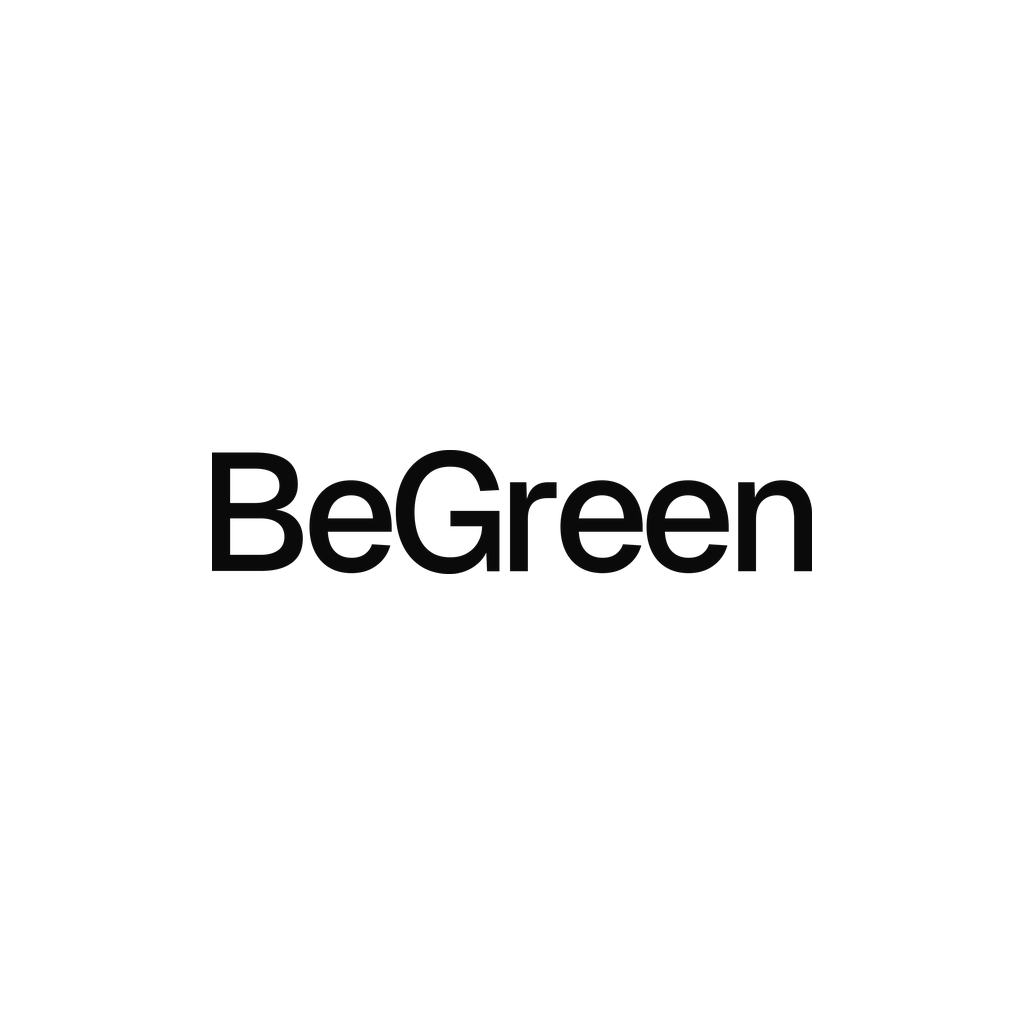
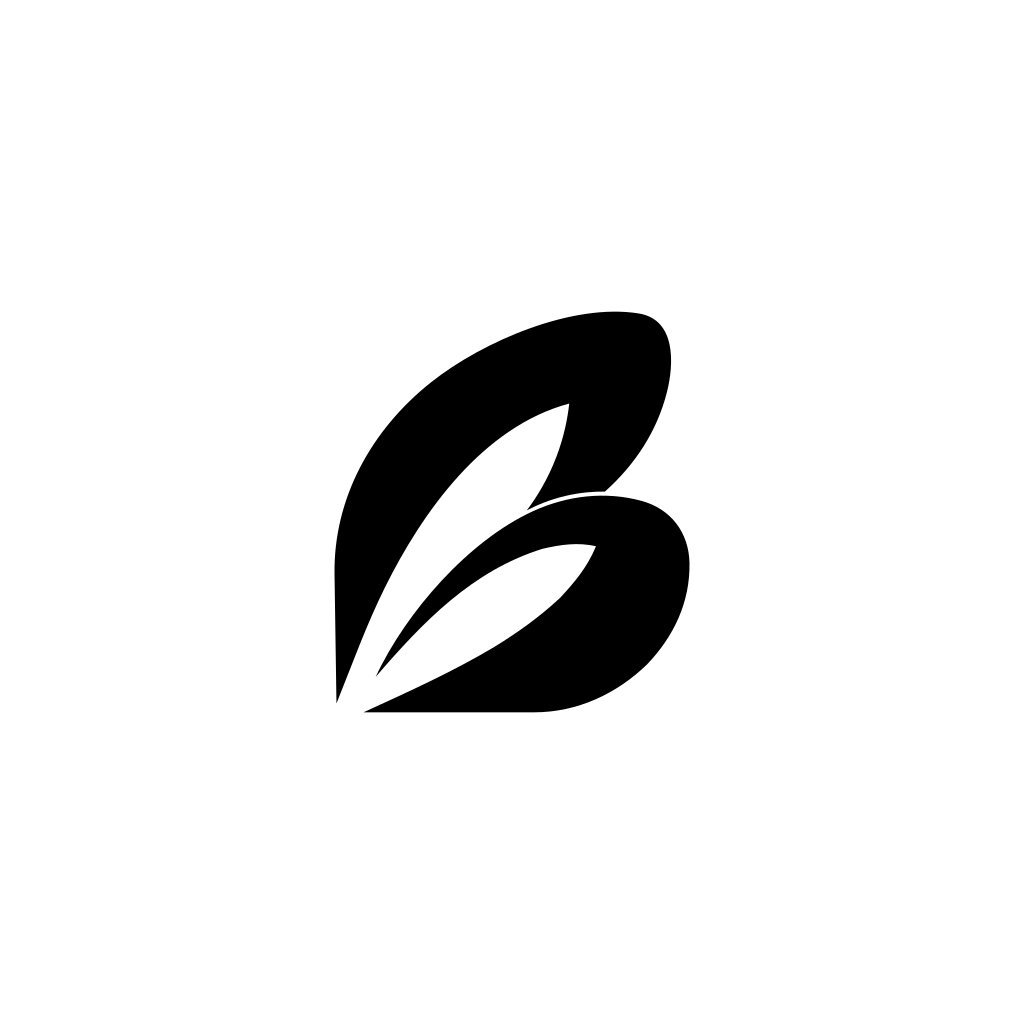
feat: loghi del BeGreen Brand Kit nell'app
Sostituisce il logo testuale «BeGreen» con il logo vettoriale del Brand Kit v1.0
(simbolo «B» a foglia + wordmark) in un nuovo componente `components/logo.tsx`,
e aggiorna icona app, icona adattiva Android, splash e favicon (Canopy su Proof Lime).

- Rimossa l'animazione `SwayingLeaf`: il Brand Kit vieta di ruotare il logo.
- Nuovi token `canopy` e `proofLime`; `lime` e `forest` dell'interfaccia restano invariati.
- README e MARKETING aggiornati.

Changed region(s): [[0.1875, 0.2812, 0.8125, 0.7188]]

diff --git a/src/components/logo.tsx b/src/components/logo.tsx
@@ -1,0 +1,64 @@
+import { View } from "react-native";
+import Svg, { G, Path } from "react-native-svg";
+
+import { C } from "@/theme/tokens";
+
+// Vector paths from the BeGreen Brand Kit (Logos/SVG, v1.0). Lockup geometry is baked in:
+// mark = 1.32 × wordmark height, gap = 0.34 × wordmark height, bottoms aligned.
+// Never put lime on white, and never stretch or rearrange the lockup.
+
+const MARK = [
+  "M187.02,73.21c-68.92,18.39-117.26,86.88-146.75,146.34-14.96,30.16-25.65,60.13-38.7,92.63L.02,209.21c-.91-60.68,29.56-115.31,76.85-152.89C118.36,23.34,190-7.08,242.46,1.46c29.7,4.83,28.08,40.15,22.38,62.71-7.87,31.15-25.38,57.74-49.41,79.2-8.26-.1-19.05.55-31.31,3.42-12.95,3.03-23.37,7.57-30.93,11.54,7.46-9.88,16.67-24.29,23.79-43.18,6.09-16.16,8.8-30.73,10.04-41.95Z",
+  "M179.32,228.43c12.04-12.82,22-24.73,29.02-41.48-14.35-3.4-28.2-1.34-42.63,2-55.86,17.39-95,58.01-132.9,102.06,24.18-51.95,74.36-108.67,125.18-131.96,27.53-12.61,57.69-16.09,86.51-8.32,23.51,6.33,37.92,25.39,38.32,49.65.52,30.91-12.39,58.38-33.91,80.77-23.89,23.12-55.25,38.07-89.71,38.07l-136.14.02c36.57-16.79,70.67-32.1,104.27-52.13,18.66-11.47,35.51-23.47,51.98-38.69Z",
+];
+
+const WORDMARK = [
+  "M0,209.64V4.62h73.63c24.64,0,43.21,4.43,55.73,13.28,12.51,8.86,18.77,22.91,18.77,42.16,0,8.66-1.83,16.27-5.49,22.81-3.66,6.55-9,11.69-16.03,15.45-7.03,3.75-15.35,5.73-24.98,5.92l-.29-1.15c17.52.39,31.14,5.15,40.86,14.29,9.72,9.15,14.58,21.13,14.58,35.95,0,18.67-6.26,32.73-18.77,42.16-12.52,9.43-30.32,14.15-53.42,14.15H0ZM31.19,92.11h41.87c13.67,0,24.26-2.6,31.76-7.8,7.51-5.2,11.26-12.51,11.26-21.95,0-10.01-3.61-17.47-10.83-22.38-7.22-4.91-17.95-7.36-32.2-7.36H31.19v59.48ZM31.19,181.63h52.55c12.9,0,22.96-2.64,30.18-7.94,7.22-5.29,10.83-13.04,10.83-23.25s-3.61-17.8-10.83-23.39c-7.22-5.58-17.28-8.37-30.18-8.37H31.19v62.95Z",
+  "M235.92,213.11c-15.02,0-27.96-3.28-38.84-9.82-10.88-6.54-19.25-15.88-25.12-28.01-5.87-12.13-8.81-26.28-8.81-42.45s2.93-30.27,8.81-42.3c5.87-12.03,14.19-21.37,24.98-28.01,10.78-6.64,23.48-9.96,38.12-9.96,13.86,0,26.08,3.23,36.67,9.67,10.58,6.45,18.81,15.74,24.69,27.87,5.87,12.13,8.81,26.76,8.81,43.89v7.8h-110.31c.77,15.02,4.76,26.28,11.98,33.79,7.22,7.51,16.99,11.26,29.31,11.26,9.05,0,16.55-2.12,22.52-6.35,5.96-4.23,10.11-9.91,12.42-17.04l31.76,2.02c-4.04,14.25-11.98,25.75-23.82,34.51-11.84,8.76-26.23,13.14-43.17,13.14ZM194.91,118.68h77.97c-.97-13.67-4.86-23.77-11.69-30.32-6.84-6.54-15.55-9.82-26.13-9.82s-19.97,3.42-27,10.25c-7.03,6.84-11.41,16.8-13.14,29.89Z",
+  "M401.08,214.26c-19.45,0-36.09-4.58-49.96-13.72-13.86-9.14-24.45-21.75-31.76-37.83-7.32-16.07-10.97-34.51-10.97-55.3s3.7-38.98,11.12-55.15c7.41-16.17,18.14-28.92,32.2-38.26,14.05-9.34,30.9-14,50.53-14,16.75,0,30.94,2.99,42.59,8.95,11.64,5.97,20.89,14.15,27.72,24.54,6.83,10.4,11.6,22.23,14.29,35.52l-32.63,1.73c-2.31-12.51-7.51-22.67-15.59-30.46-8.08-7.8-20.21-11.69-36.38-11.69-14.25,0-25.89,3.56-34.94,10.68-9.05,7.12-15.74,16.65-20.07,28.59-4.33,11.94-6.5,25.12-6.5,39.56s2.17,28.4,6.5,40.14c4.33,11.74,11.07,21.03,20.21,27.87,9.14,6.83,20.84,10.25,35.08,10.25,11.16,0,20.79-2.41,28.88-7.22,8.08-4.81,14.39-11.36,18.91-19.64,4.52-8.28,6.98-17.42,7.36-27.43h-54.86v-26.28h84.61v104.53h-21.37l-2.02-46.2,4.04,3.46c-2.12,9.24-6.45,17.42-12.99,24.54-6.55,7.12-14.49,12.71-23.82,16.75-9.34,4.04-19.4,6.06-30.18,6.06Z",
+  "M501.57,209.64V56.02h28.01l1.16,40.72-2.6-.87c2.12-13.86,6.4-23.97,12.85-30.32,6.45-6.35,15.16-9.53,26.13-9.53h14.73v27.43h-14.73c-7.7,0-14.15,1.25-19.35,3.75-5.2,2.5-9.1,6.35-11.7,11.55s-3.9,11.94-3.9,20.21v90.67h-30.61Z",
+  "M645.38,213.11c-15.02,0-27.96-3.28-38.84-9.82-10.88-6.54-19.25-15.88-25.12-28.01-5.88-12.13-8.81-26.28-8.81-42.45s2.93-30.27,8.81-42.3c5.87-12.03,14.19-21.37,24.98-28.01,10.78-6.64,23.48-9.96,38.12-9.96,13.86,0,26.08,3.23,36.67,9.67,10.58,6.45,18.81,15.74,24.69,27.87,5.87,12.13,8.81,26.76,8.81,43.89v7.8h-110.31c.77,15.02,4.76,26.28,11.98,33.79,7.22,7.51,16.99,11.26,29.31,11.26,9.05,0,16.55-2.12,22.52-6.35,5.96-4.23,10.11-9.91,12.42-17.04l31.76,2.02c-4.04,14.25-11.98,25.75-23.82,34.51-11.84,8.76-26.23,13.14-43.17,13.14ZM604.37,118.68h77.97c-.97-13.67-4.86-23.77-11.7-30.32-6.83-6.54-15.55-9.82-26.13-9.82s-19.97,3.42-27,10.25c-7.03,6.84-11.41,16.8-13.14,29.89Z",
+  "M787.16,213.11c-15.02,0-27.96-3.28-38.84-9.82-10.88-6.54-19.25-15.88-25.12-28.01-5.88-12.13-8.81-26.28-8.81-42.45s2.93-30.27,8.81-42.3c5.87-12.03,14.19-21.37,24.98-28.01,10.78-6.64,23.48-9.96,38.12-9.96,13.86,0,26.08,3.23,36.67,9.67,10.58,6.45,18.81,15.74,24.69,27.87,5.87,12.13,8.81,26.76,8.81,43.89v7.8h-110.31c.77,15.02,4.76,26.28,11.98,33.79,7.22,7.51,16.99,11.26,29.31,11.26,9.05,0,16.55-2.12,22.52-6.35,5.96-4.23,10.11-9.91,12.42-17.04l31.76,2.02c-4.04,14.25-11.98,25.75-23.82,34.51-11.84,8.76-26.23,13.14-43.17,13.14ZM746.15,118.68h77.97c-.97-13.67-4.86-23.77-11.7-30.32-6.83-6.54-15.55-9.82-26.13-9.82s-19.97,3.42-27,10.25c-7.03,6.84-11.41,16.8-13.14,29.89Z",
+  "M865.7,209.64V56.02h28.01l1.16,41-3.75-2.02c1.73-10.01,5-18.09,9.82-24.26,4.81-6.16,10.68-10.73,17.61-13.72,6.93-2.98,14.44-4.48,22.52-4.48,11.55,0,21.12,2.55,28.73,7.65,7.6,5.1,13.38,12.03,17.33,20.79,3.94,8.76,5.92,18.72,5.92,29.89v98.76h-30.61v-89.52c0-9.05-.97-16.65-2.89-22.81-1.93-6.16-5.1-10.87-9.53-14.15-4.43-3.27-10.21-4.91-17.33-4.91-10.78,0-19.54,3.56-26.28,10.68-6.74,7.12-10.11,17.52-10.11,31.19v89.52h-30.61Z",
+];
+
+const MARK_BOX = { w: 282.83, h: 319.25 };
+const LOCKUP_BOX = { w: 1316.45, h: 282.82 };
+
+// Full lockup (mark + wordmark). `size` is the lockup height in points; min width is 88.
+export function Logo({ size = 28, color = C.canopy }: { size?: number; color?: string }) {
+  return (
+    <View accessible accessibilityRole="header" accessibilityLabel="BeGreen">
+      <Svg width={(size * LOCKUP_BOX.w) / LOCKUP_BOX.h} height={size} viewBox={`0 0 ${LOCKUP_BOX.w} ${LOCKUP_BOX.h}`}>
+        <G scale={0.8859} fill={color}>
+          {MARK.map((d) => (
+            <Path key={d} d={d} />
+          ))}
+        </G>
+        <G x={323.41} y={68.56} fill={color}>
+          {WORDMARK.map((d) => (
+            <Path key={d} d={d} />
+          ))}
+        </G>
+      </Svg>
+    </View>
+  );
+}
+
+// The leaf "B" on its own: avatars, stickers, watermark. `size` is its height; min 16.
+export function LogoMark({ size = 28, color = C.canopy }: { size?: number; color?: string }) {
+  return (
+    <Svg
+      width={(size * MARK_BOX.w) / MARK_BOX.h}
+      height={size}
+      viewBox={`0 0 ${MARK_BOX.w} ${MARK_BOX.h}`}
+      accessibilityLabel="BeGreen"
+    >
+      <G fill={color}>
+        {MARK.map((d) => (
+          <Path key={d} d={d} />
+        ))}
+      </G>
+    </Svg>
+  );
+}

diff --git a/src/components/ui.tsx b/src/components/ui.tsx
@@ -15,33 +15,15 @@ import { useSafeAreaInsets } from "react-native-safe-area-context";
 import { create } from "zustand";
 
 import { Icon, type IconName } from "@/components/icon";
-import { LeafMark, SwayingLeaf } from "@/components/nature";
+import { LeafMark } from "@/components/nature";
 import { SOURCE_KINDS, SOURCES, type SourceId } from "@/data/sources";
 import type { Media } from "@/data/types";
 import { C, F, R, shadow, T } from "@/theme/tokens";
 import { haptic } from "@/utils/format";
 
-// ---------- Wordmark ----------
+// ---------- Logo ----------
 
-// "Be" in ink, "Green" in green, with a leaf growing from the n. On dark, Green turns lime;
-// any other ink colour (a muted footer) keeps the wordmark in one colour. `sway` lets the leaf move in the breeze.
-export function Logo({ size = 28, color = C.ink, dark, sway }: { size?: number; color?: string; dark?: boolean; sway?: boolean }) {
-  const green = dark ? C.lime : color === C.ink ? C.leaf : color;
-  return (
-    <View accessible accessibilityRole="header" accessibilityLabel="BeGreen" style={{ flexDirection: "row", alignItems: "flex-start" }}>
-      <Text style={{ fontFamily: F.medium, fontSize: size, lineHeight: size * 1.1, letterSpacing: -size * 0.06, color }}>
-        Be<Text style={{ color: green }}>Green</Text>
-      </Text>
-      <View style={{ marginLeft: size * 0.02, marginTop: -size * 0.06 }}>
-        {sway ? (
-          <SwayingLeaf size={size * 0.42} color={green} vein={dark ? C.forest : C.white} rotate={8} />
-        ) : (
-          <LeafMark size={size * 0.42} color={green} vein={dark ? C.forest : C.white} rotate={8} />
-        )}
-      </View>
-    </View>
-  );
-}
+export { Logo, LogoMark } from "@/components/logo";
 
 // ---------- Text helpers ----------
 

diff --git a/src/components/nature.tsx b/src/components/nature.tsx
@@ -93,29 +93,6 @@ export function LeafScatter({ color = C.leaf, style }: { color?: string; style?:
   );
 }
 
-// A leaf moving in a light breeze, pivoting on its stem.
-export function SwayingLeaf({ size = 18, color = C.leaf, vein = C.white, rotate = 0 }: { size?: number; color?: string; vein?: string; rotate?: number }) {
-  const t = useSharedValue(0);
-  useEffect(() => {
-    t.set(withRepeat(withTiming(1, { duration: 2600, easing: Easing.inOut(Easing.sin) }), -1, true));
-  }, [t]);
-  // Rotate around the bottom-left stem rather than the centre.
-  const a = useAnimatedStyle(() => ({
-    transform: [
-      { translateX: -size / 2 },
-      { translateY: size / 2 },
-      { rotate: `${rotate - 8 + t.value * 16}deg` },
-      { translateX: size / 2 },
-      { translateY: -size / 2 },
-    ],
-  }));
-  return (
-    <Animated.View style={a}>
-      <LeafMark size={size} color={color} vein={vein} />
-    </Animated.View>
-  );
-}
-
 // A switch whose knob turns green and sprouts a leaf when on.
 // Inspired by Creatlydev's leaf toggle on uiverse.io (white-vampirebat-27).
 export function LeafSwitch({ value, onValueChange, label }: { value: boolean; onValueChange: (v: boolean) => void; label: string }) {

diff --git a/src/app/onboarding.tsx b/src/app/onboarding.tsx
@@ -289,7 +289,7 @@ export default function Onboarding() {
     <KeyboardAvoidingView behavior={process.env.EXPO_OS === "ios" ? "padding" : undefined} style={{ flex: 1, backgroundColor: C.bg }}>
       <View style={{ paddingTop: top + 10, paddingHorizontal: 20, gap: 14 }}>
         <View style={{ flexDirection: "row", alignItems: "center", justifyContent: "space-between" }}>
-          <Logo size={24} sway />
+          <Logo size={24} />
           {page < last ? (
             <Pressable onPress={() => go(last)} hitSlop={10} accessibilityRole="button">
               <Mono color={C.ink}>Skip</Mono>

diff --git a/src/app/(tabs)/index.tsx b/src/app/(tabs)/index.tsx
@@ -200,7 +200,7 @@ export default function Feed() {
         <Press onPress={() => router.push("/leaf")} accessibilityLabel="Ask Leaf" style={{ width: 40, height: 40, justifyContent: "center" }}>
           <Icon name="sparkle" size={21} color={C.leaf} />
         </Press>
-        <Logo size={26} sway />
+        <Logo size={24} />
         <Press onPress={() => router.navigate("/me")} accessibilityLabel="Your profile" style={{ width: 40, alignItems: "flex-end" }}>
           <Avatar name={profile.name || "You"} size={32} />
         </Press>

diff --git a/src/app/(tabs)/me.tsx b/src/app/(tabs)/me.tsx
@@ -303,7 +303,7 @@ export default function Me() {
         </View>
 
         <View style={{ alignItems: "center", gap: 6, paddingTop: 8 }}>
-          <Logo size={22} color={C.faint} />
+          <Logo size={19} color={C.faint} />
           <Mono color={C.faint}>Proof, not promises · v1.1</Mono>
         </View>
       </ScrollView>

diff --git a/src/theme/tokens.ts b/src/theme/tokens.ts
@@ -32,6 +32,9 @@ export const C = {
   red: "#E5484D",
   blue: "#3E63DD",
   violet: "#6E56CF",
+  // Brand Kit — logo, app icon and splash. Never Proof Lime on white (1.4:1).
+  canopy: "#152315",
+  proofLime: "#C8E61A",
 } as const;
 
 // Geist for everything; Geist Mono for labels, numbers and metadata.

diff --git a/README.md b/README.md
@@ -105,8 +105,9 @@ assets/                   Icon, splash, demo photos (Unsplash), avatars, 5 s pro
 ## Design system
 
 - **White, black and one living green.** White paper and black ink, with a brand green family in `theme/tokens.ts`: `forest` (deep canopy, for dark surfaces and green text), `leaf` (fills, icons, progress; at least 4.5:1 on white and mint), `lime` (new growth, accents on dark only) and `mint` (soft tints). Data keeps its own signal colours (air bands, source kinds, recording red).
-- **Nature motifs** in `components/nature.tsx`: the leaf on the wordmark, a sprout for empty states, slowly drifting organic blobs and leaf-shaped corners on the Drop and Pulse cards, a switch that sprouts a leaf (after a [uiverse.io](https://uiverse.io/Creatlydev/white-vampirebat-27) toggle), leaves flying out when you verify a proof and leaf confetti on the celebration (after [React Bits](https://reactbits.dev) Click Spark and Aurora). They are decorative and hidden from screen readers.
-- **Geist Medium** for the wordmark and headlines, tracked tight; Geist for body copy; **Geist Mono** for metadata, labels and numbers (`SDG 13`, `PROOF 0:05`, `09:42:15`).
+- **Logo** from the BeGreen Brand Kit v1.0 in `components/logo.tsx`: the leaf "B" mark and the lockup, drawn as vectors in Canopy (`#152315`). App icon, Android adaptive icon and splash are Canopy on Proof Lime (`#C8E61A`). Never lime on white, never stretch, rotate or rearrange the lockup; minimum 88 px wide for the lockup, 16 px tall for the mark.
+- **Nature motifs** in `components/nature.tsx`: a sprout for empty states, slowly drifting organic blobs and leaf-shaped corners on the Drop and Pulse cards, a switch that sprouts a leaf (after a [uiverse.io](https://uiverse.io/Creatlydev/white-vampirebat-27) toggle), leaves flying out when you verify a proof and leaf confetti on the celebration (after [React Bits](https://reactbits.dev) Click Spark and Aurora). They are decorative and hidden from screen readers.
+- **Geist Medium** for headlines, tracked tight; Geist for body copy; **Geist Mono** for metadata, labels and numbers (`SDG 13`, `PROOF 0:05`, `09:42:15`).
 - Editorial layout: hairline rules, numbered sections (`01`, `02`…), big tabular numbers.
 - Deep green is reserved for moments that matter: the Drop, your own row in the league, the celebration, the shutter. The camera stays black.
 - Haptics on every meaningful press; springs on entry; count-up numbers; a confetti burst when you post.

diff --git a/MARKETING.md b/MARKETING.md
@@ -35,7 +35,7 @@ Teens are the users; schools and Comuni are the distribution and, later, the rev
 - **Short, dry, a little funny.** “told mom no lift today. the 90 bus is lowkey a vibe.” Never “Save the planet! 🌍”.
 - **Never guilt-trip.** We celebrate doing, never shame not-doing. No CO₂ doom counters.
 - **Honest about data.** We say “model”, “estimate”, “citizen science”. Being transparent is part of being cool for this audience.
-- **Visual identity:** black on white, Geist Medium wordmark, Geist Mono for the details. Looks like a fashion brand, not an NGO. No leaves-on-gradients, no stock earth globes.
+- **Visual identity:** black on white, the leaf "B" logo in Canopy on Proof Lime, Geist Mono for the details. Looks like a fashion brand, not an NGO. No leaves-on-gradients, no stock earth globes.
 
 ## 5. Go-to-market: city by city, school by school
 
